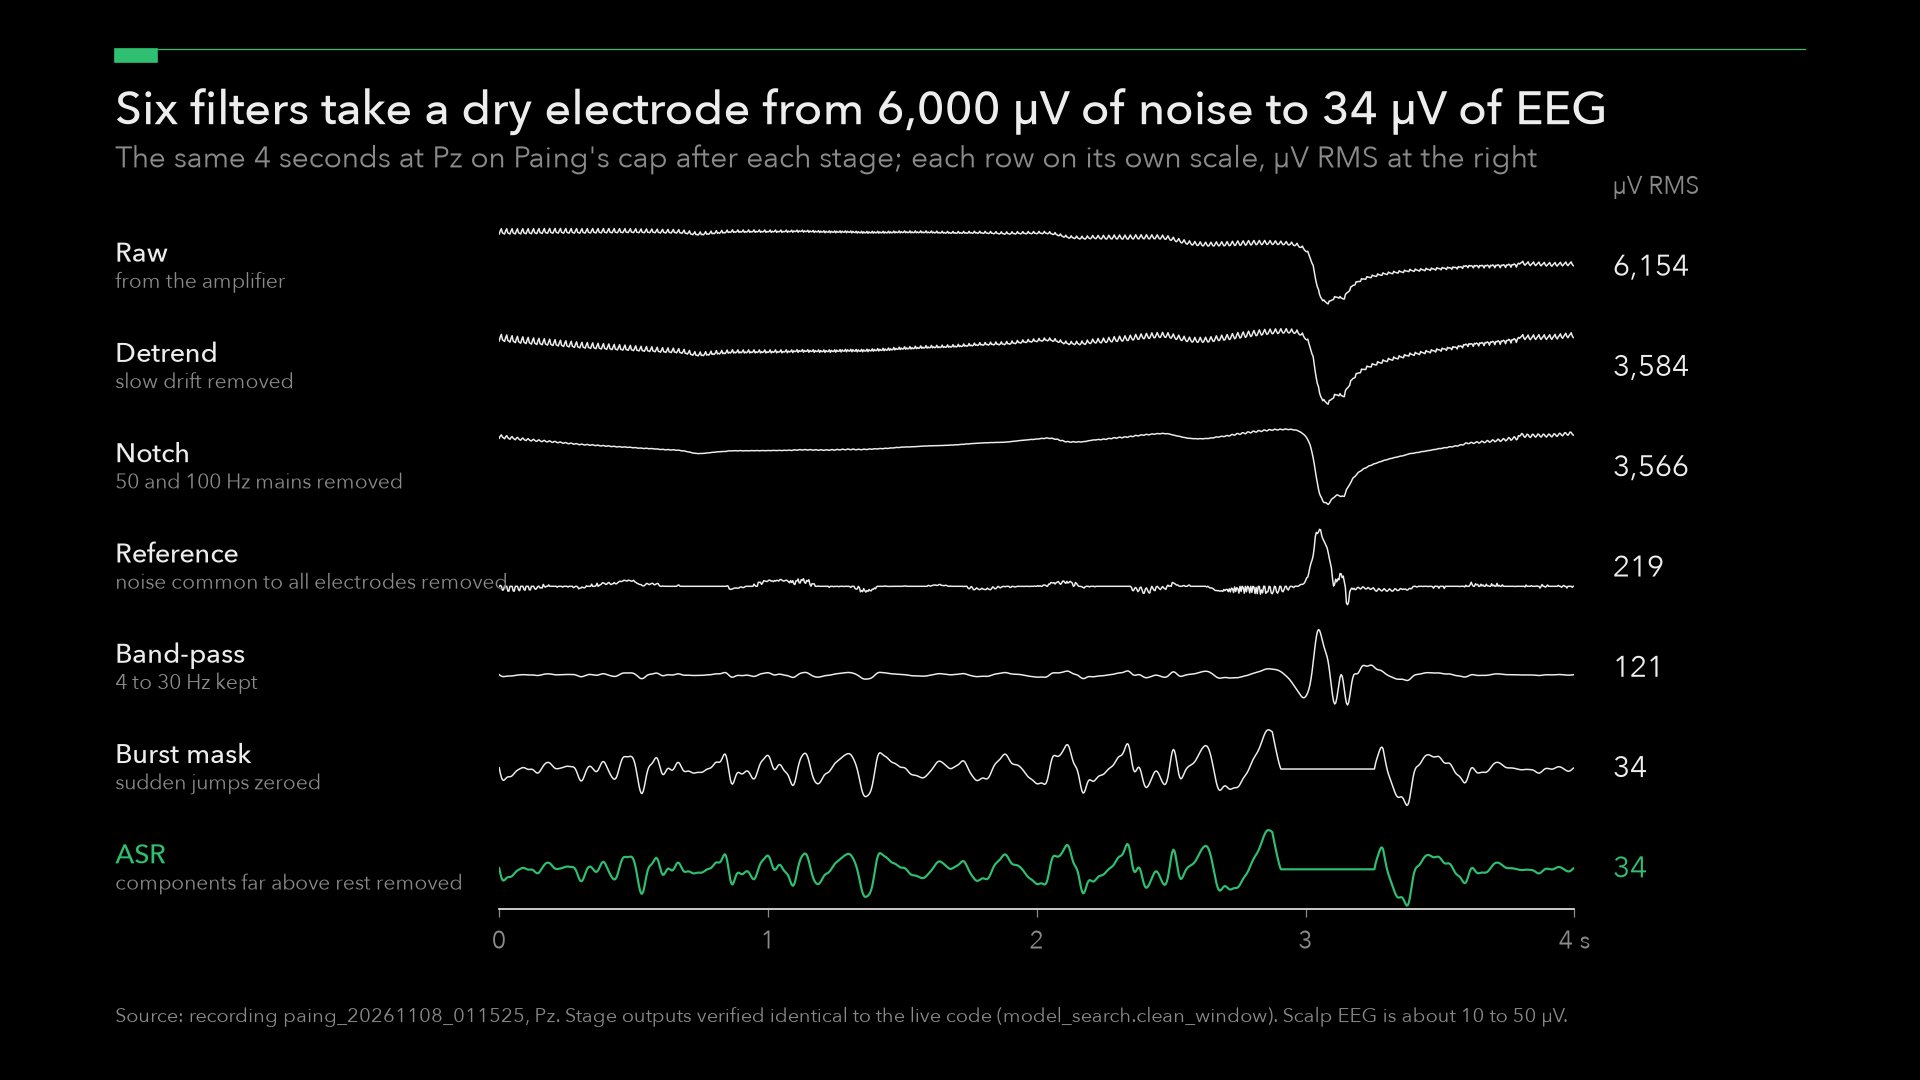
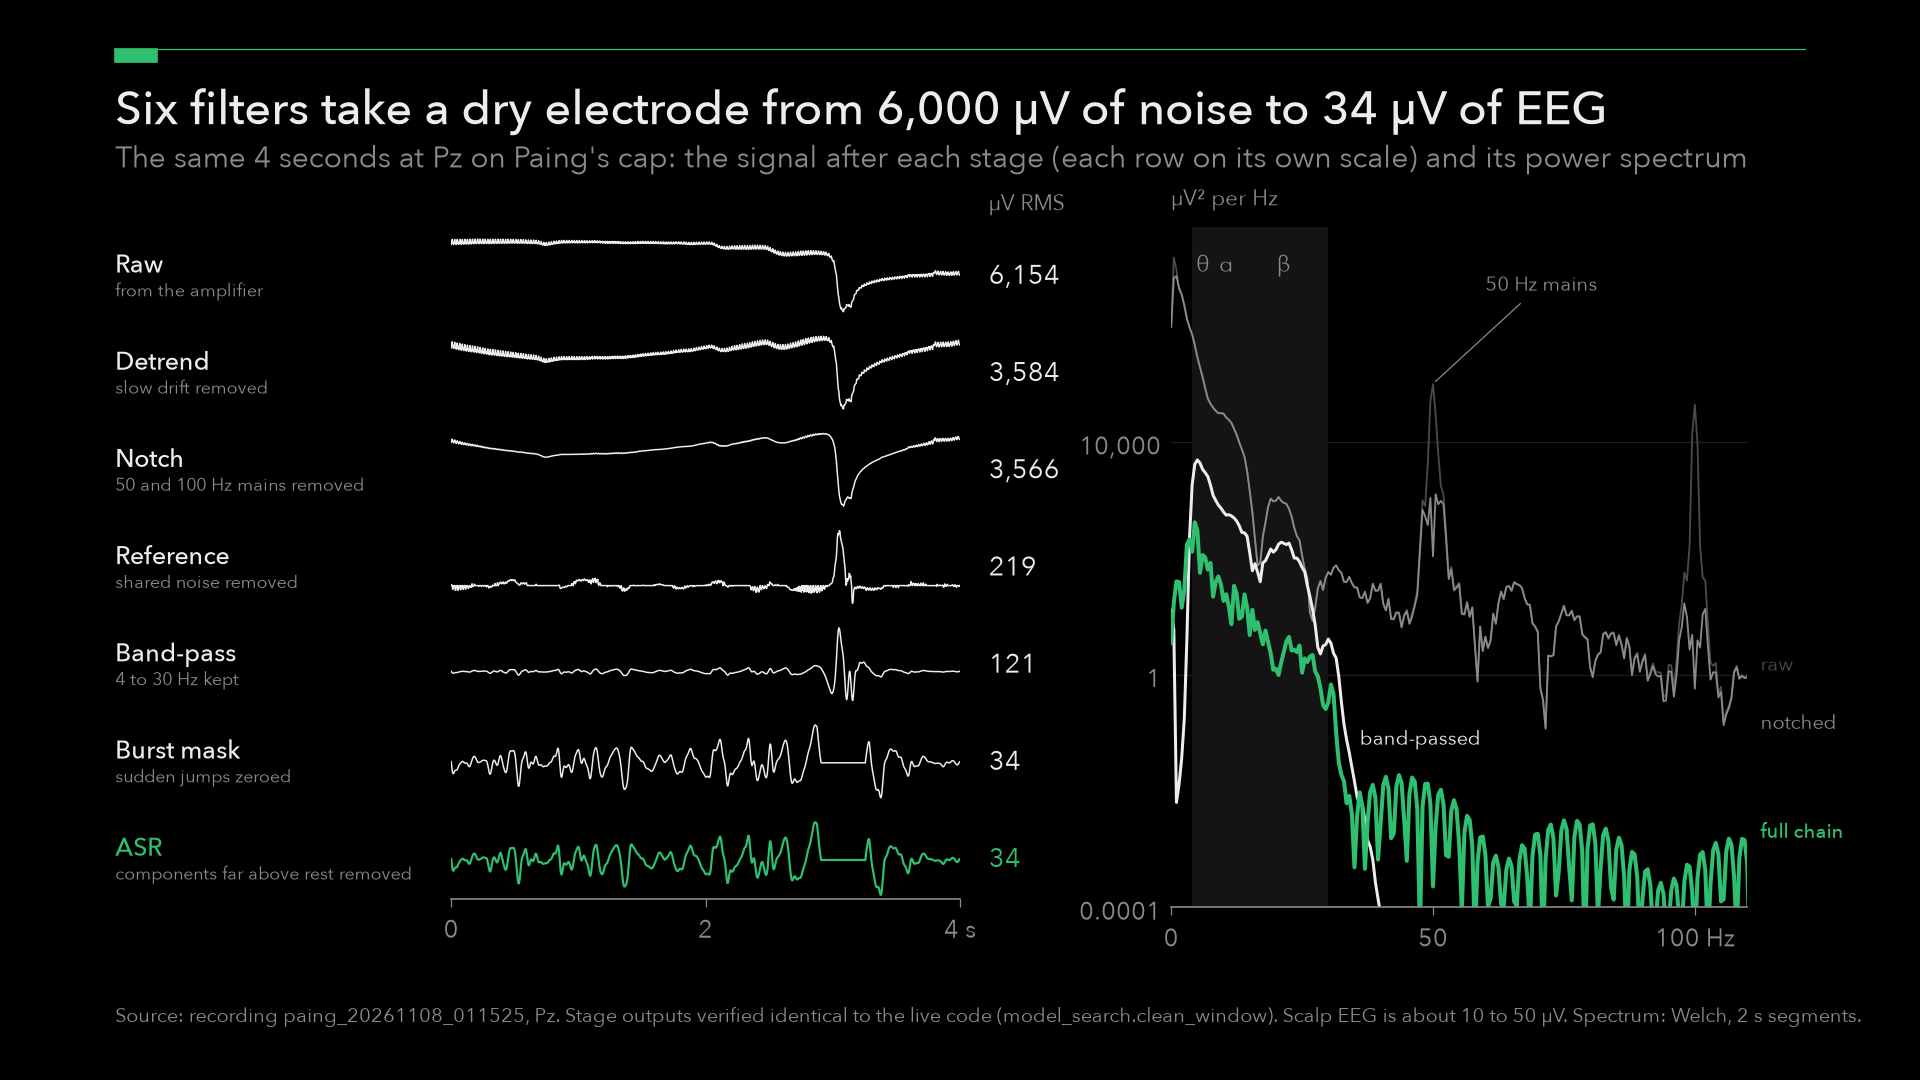
Figures: slides 2 and 3 merged (stage stack plus spectrum), brain-markers slide dropped; best8 is now six figures

diff --git a/loadmonitor/figures_editorial.py b/loadmonitor/figures_editorial.py
@@ -1,9 +1,8 @@
-"""The eight presentation figures, editorial style (loadmonitor/figstyle.py), all from real data.
+"""The six presentation figures, editorial style (loadmonitor/figstyle.py), all from real data.
 
     .venv/bin/python loadmonitor/figures_editorial.py        # writes figures/slides/best8/1..8 (about 6 min; ML pass cached)
 
-1 how it works        2 raw to clean, stage by stage        3 what each stage removes (spectrum)
-4 brain markers, 36 people    5 training curve    6 ROC on unseen people    7 live demo trace    8 app (screenshot, untouched)
+1 how it works   2 raw to clean (stage by stage, plus the spectrum)   3 training curve   4 ROC on unseen people   5 live demo trace   6 app (screenshot)
 """
 import csv
 import glob
@@ -109,7 +108,7 @@ coef, *_ = np.linalg.lstsq(V, y.T, rcond=None); y = y - (V @ coef).T; stages.app
 for f0 in (50.0, 100.0):
     y = sosfiltfilt(tf2sos(*iirnotch(f0, 30.0, fs=FS)), y, axis=1)
 stages.append(("Notch", "50 and 100 Hz mains removed", y.copy()))
-y = y - np.median(y[ok], axis=0, keepdims=True); stages.append(("Reference", "noise common to all electrodes removed", y.copy()))
+y = y - np.median(y[ok], axis=0, keepdims=True); stages.append(("Reference", "shared noise removed", y.copy()))
 y = sosfiltfilt(butter(cfg.get("order", 4), [cfg["lo"], cfg["hi"]], btype="band", fs=FS, output="sos"), y, axis=1)
 stages.append(("Band-pass", "4 to 30 Hz kept", y.copy()))
 env = np.abs(hilbert(y, axis=1)); bad = env > cfg["burst"] * np.median(env, axis=1, keepdims=True) + 1e-9
@@ -121,68 +120,33 @@ stages.append(("Burst mask", "sudden jumps zeroed", y.copy()))
 if asr.V is not None:
     y = asr(y); stages.append(("ASR", "components far above rest removed", y.copy()))
 
-fig = F.page("Six filters take a dry electrode from 6,000 µV of noise to 34 µV of EEG", "The same 4 seconds at Pz on Paing's cap after each stage; each row on its own scale, µV RMS at the right")
-n = len(stages); top, bot = 0.80, 0.15; h = (top - bot) / n
+fig = F.page("Six filters take a dry electrode from 6,000 µV of noise to 34 µV of EEG", "The same 4 seconds at Pz on Paing's cap: the signal after each stage (each row on its own scale) and its power spectrum")
+n = len(stages); top, bot = 0.79, 0.16; h = (top - bot) / n
 for i, (nm, what, yy) in enumerate(stages):
-    ax = fig.add_axes([0.26, top - (i + 1) * h + 0.008, 0.56, h - 0.016]); ax.grid(False); ax.axis("off")
+    ax = fig.add_axes([0.235, top - (i + 1) * h + 0.008, 0.265, h - 0.016]); ax.grid(False); ax.axis("off")
     last = i == n - 1
-    ax.plot(t, yy[j], color=F.ACCENT if last else F.INK, lw=1.3 if last else 0.9)
-    ax.set_xlim(0, 4)
-    fig.text(F.LEFT, top - (i + 0.5) * h + 0.012, nm, fontsize=16, color=F.ACCENT if last else F.INK, va="center", weight="medium")
-    fig.text(F.LEFT, top - (i + 0.5) * h - 0.014, what, fontsize=12.5, color=F.INK2, va="center")
+    ax.plot(t, yy[j], color=F.ACCENT if last else F.INK, lw=1.3 if last else 0.9); ax.set_xlim(0, 4)
+    fig.text(F.LEFT, top - (i + 0.5) * h + 0.010, nm, fontsize=15, color=F.ACCENT if last else F.INK, va="center", weight="medium")
+    fig.text(F.LEFT, top - (i + 0.5) * h - 0.014, what, fontsize=11, color=F.INK2, va="center")
     r = yy[j][FS // 2:-FS // 2].std()
-    fig.text(0.84, top - (i + 0.5) * h, f"{r:,.0f}", fontsize=18, color=F.ACCENT if last else F.INK, va="center", ha="left")
-fig.text(0.84, top + 0.012, "µV RMS", fontsize=F.T_AX, color=F.INK2, va="bottom")
-ax.axis("on"); ax.spines["bottom"].set_visible(True); ax.set_yticks([]); ax.set_xticks([0, 1, 2, 3, 4]); ax.set_xticklabels(["0", "1", "2", "3", "4 s"])
-F.source(fig, "Source: recording paing_20261108_011525, Pz. Stage outputs verified identical to the live code (model_search.clean_window). Scalp EEG is about 10 to 50 µV.")
-out(fig, 2, "raw_to_clean.png")
-
-fig = F.page("Mains hum sits a million times above the brain bands until the chain removes it", "Power spectrum of the same window after each stage, µV² per Hz, log scale")
-a = F.axes(fig, (F.LEFT, 0.16, 0.80, 0.62))
-pick = [(0, F.GREY, 1.2), (2, F.INK2, 1.2), (4, F.INK, 2.0), (n - 1, F.ACCENT, 2.6)]
-for lo, hi, nm in ((4, 8, "theta"), (8, 13, "alpha"), (13, 30, "beta")):
+    fig.text(0.515, top - (i + 0.5) * h, f"{r:,.0f}", fontsize=16, color=F.ACCENT if last else F.INK, va="center", ha="left")
+fig.text(0.515, top + 0.008, "µV RMS", fontsize=13, color=F.INK2, va="bottom")
+ax.axis("on"); ax.spines["bottom"].set_visible(True); ax.spines["bottom"].set_color(F.INK2); ax.set_yticks([]); ax.set_xticks([0, 2, 4]); ax.set_xticklabels(["0", "2", "4 s"])
+a = F.axes(fig, (0.61, 0.16, 0.30, 0.63))
+pick = [(0, F.GREY, 1.1), (2, F.INK2, 1.1), (4, F.INK, 1.8), (n - 1, F.ACCENT, 2.4)]
+for lo, hi, nm in ((4, 8, "θ"), (8, 13, "α"), (13, 30, "β")):
     a.axvspan(lo, hi, color=F.BAND, lw=0)
     a.text((lo + hi) / 2, 2e7, nm, ha="center", va="top", fontsize=13, color=F.INK2)
-ends = {}
 for i, col, lw in pick:
     f_, p_ = welch(stages[i][2][j], fs=FS, nperseg=2 * FS)
-    a.semilogy(f_, p_ + 1e-5, color=col, lw=lw); ends[i] = p_[-1] + 1e-5
-F.end_label(a, 110, 3.0, "raw", F.GREY); F.end_label(a, 110, 0.6, "after notch", F.INK2)
-a.text(21, 2.5e3, "after band-pass", color=F.INK, fontsize=F.T_LABEL, ha="left", va="bottom"); F.end_label(a, 110, 2e-3, "after full chain", F.ACCENT, weight="medium")
-a.set_xlim(0, 110); a.set_ylim(1e-4, 5e7); a.set_xlabel("frequency, Hz")
-a.annotate("50 Hz mains", (50, 1e5), xytext=(58, 3e6), color=F.INK2, fontsize=13, arrowprops=dict(arrowstyle="-", color=F.INK2, lw=0.75))
-F.source(fig, "Source: same Pz window as the previous figure. Welch, 2 s segments.")
-out(fig, 3, "stage_spectra.png")
-
-# ---------- 4 brain markers, 36 people ----------
-rm.CH[:] = ["Fz", "Pz", "O1"]
-def rel(sig, lo, hi):
-    f_, p_ = welch(sig - sig.mean(), fs=FS, nperseg=2 * FS)
-    return 10 * np.log10(p_[(f_ >= lo) & (f_ < hi)].sum() / p_[(f_ >= 4) & (f_ < 30)].sum())
-P = []
-for path in sorted(glob.glob("data/eegmat/Subject*_1.edf")):
-    xr, fs = rm.load_edf(path); xt, _ = rm.load_edf(path.replace("_1.edf", "_2.edf"))
-    if fs == 500:
-        xr = resample_poly(xr, 1, 2, axis=1); xt = resample_poly(xt, 1, 2, axis=1)
-    def med(xx, ch, lo, hi, a0, a1):
-        return float(np.median([rel(sosfiltfilt(NOTCH, xx[ch, s:s + 4 * FS]), lo, hi) for s in range(a0 * FS, min(a1 * FS, xx.shape[1] - 4 * FS), 2 * FS)]))
-    P.append((np.mean([med(xr, 1, 8, 13, 30, 90), med(xr, 2, 8, 13, 30, 90)]), np.mean([med(xt, 1, 8, 13, 0, 60), med(xt, 2, 8, 13, 0, 60)]),
-              med(xr, 0, 4, 8, 30, 90), med(xt, 0, 4, 8, 0, 60)))
-P = np.array(P)
-fig = F.page("In arithmetic, alpha at the back of the head falls and theta at the front rises", f"{len(P)} lab people, rest then silent subtraction; relative band power, dB; one line per person, the median in colour")
-for k, (i0, i1, nm, col, expect_down) in enumerate(((0, 1, "Posterior alpha, Pz and O1", F.ACCENT, True), (2, 3, "Frontal theta, Fz", F.ACCENT, False))):
-    a = F.axes(fig, (F.LEFT + k * 0.47, 0.16, 0.34, 0.60))
-    d = P[:, i1] - P[:, i0]
-    for r in P:
-        a.plot([0, 1], [r[i0], r[i1]], color=F.GREY, lw=1.0)
-    a.plot([0, 1], [np.median(P[:, i0]), np.median(P[:, i1])], color=col, lw=3.0)
-    F.end_label(a, 1, np.median(P[:, i1]), f"median {np.median(d):+.1f} dB", col, weight="medium")
-    a.set_xticks([0, 1]); a.set_xticklabels(["rest", "arithmetic"]); a.set_xlim(-0.1, 1.45)
-    a.text(0, 1.03, nm, transform=a.transAxes, fontsize=F.T_AX, color=F.INK, weight="medium", va="bottom")
-    n_dir = int(np.sum(d < 0)) if expect_down else int(np.sum(d > 0))
-    a.text(0, -0.14, f"{'falls' if expect_down else 'rises'} in {n_dir} of {len(P)} people", transform=a.transAxes, fontsize=14, color=F.INK2)
-F.source(fig, "Source: PhysioNet EEG during mental arithmetic (gel cap). Rest file 30 to 90 s vs task file 0 to 60 s, 4 s windows, median per person.")
-out(fig, 4, "brain_markers.png")
+    a.semilogy(f_, p_ + 1e-5, color=col, lw=lw)
+a.set_xlim(0, 110); a.set_ylim(1e-4, 5e7); a.set_xticks([0, 50, 100]); a.set_xticklabels(["0", "50", "100 Hz"]); a.set_yticks([1e-4, 1e0, 1e4])
+a.set_yticklabels(["0.0001", "1", "10,000"]); a.text(0, 1.02, "µV² per Hz", transform=a.transAxes, fontsize=13, color=F.INK2, va="bottom")
+a.annotate("50 Hz mains", (50, 1e5), xytext=(60, 4e6), color=F.INK2, fontsize=12, arrowprops=dict(arrowstyle="-", color=F.INK2, lw=0.75))
+F.end_label(a, 110, 1.5, "raw", F.GREY, size=12); F.end_label(a, 110, 0.15, "notched", F.INK2, size=12)
+a.text(36, 8e-2, "band-passed", color=F.INK, fontsize=12, ha="left", va="center", bbox=dict(fc=F.PAGE, ec="none", pad=1.5)); F.end_label(a, 110, 2e-3, "full chain", F.ACCENT, weight="medium", size=12)
+F.source(fig, "Source: recording paing_20261108_011525, Pz. Stage outputs verified identical to the live code (model_search.clean_window). Scalp EEG is about 10 to 50 µV. Spectrum: Welch, 2 s segments.")
+out(fig, 2, "raw_to_clean.png")
 
 # ---------- 5 and 6: training curve and ROC, one leave-one-person-out pass ----------
 cache = "models/_slide_feats.npz"
@@ -220,7 +184,7 @@ for arr, col, nm in ((tr_auc, F.GREY, "training people"), (te_auc, F.ACCENT, "pe
 a.axhline(0.5, color=F.INK2, lw=1.0, ls=(0, (4, 3))); F.end_label(a, n_est, 0.5, "chance", F.INK2)
 a.set_xlim(1, n_est); a.set_ylim(0.45, 1.0); a.set_xlabel("boosting trees"); a.set_yticks([0.5, 0.6, 0.7, 0.8, 0.9, 1.0])
 F.source(fig, "Source: PhysioNet EEG during mental arithmetic, 36 people. Live recipe: 5 channels, cleaning chain, 29 amplitude-invariant features, 200 trees of depth 2.")
-out(fig, 5, "training_curve.png")
+out(fig, 3, "training_curve.png")
 
 fig = F.page(f"On people it has never seen, the model reaches an AUROC of {pooled:.2f}", "Each of 36 people scored by a model trained on the other 35, one 4 s window at a time; grey = one person, green = all pooled")
 a = fig.add_axes([0.30, 0.15, 0.40, 0.63]); a.tick_params(axis="y", length=0); a.grid(True, axis="both")
@@ -238,7 +202,7 @@ fig.text(0.76, 0.43, "median per person", fontsize=F.T_AX, color=F.INK2)
 fig.text(0.76, 0.33, f"{int(np.sum(te_auc[:, -1] >= 0.7))} of 36", fontsize=36, color=F.INK, va="center")
 fig.text(0.76, 0.28, "people at 0.7 or better", fontsize=F.T_AX, color=F.INK2)
 F.source(fig, "Source: PhysioNet EEG during mental arithmetic (gel cap). Per-window scores before the live 12 s smoothing. Not validated on the dry cap.")
-out(fig, 6, "roc.png")
+out(fig, 4, "roc.png")
 
 # ---------- 7 live demo trace ----------
 logp = os.path.join(F.OUT, "_lab_demo_gauge.csv")
@@ -270,10 +234,10 @@ b.plot(ta, al_s, color=F.INK2, lw=1.8); b.axhline(0, color=F.GREY, lw=0.75); F.e
 b.set_xlim(34, 210); b.set_yticks([-4, 0, 4]); b.set_xticks([40, 80, 120, 160, 200]); b.set_xticklabels(["40", "80", "120", "160", "200 s"])
 F.source(fig, "Source: PhysioNet eegmat person 09, held out of the model's training. Shaded span = where the alarm was on (load above 50 for 20 s; it lingers from the 12 s smoothing).\n"
          "The recovery minute is the same person's earlier rest; the dataset has no rest after the task. Alpha: 8 to 13 Hz, mean of Pz and O1, 9 s smoothing.")
-out(fig, 7, "live_demo.png")
+out(fig, 5, "live_demo.png")
 
 # ---------- 8 app: the real page, untouched ----------
 import shutil
-shutil.copy(os.path.join(F.OUT, "10_app.png"), os.path.join(BEST, "8_app.png"))
-print("wrote figures/slides/best8/8_app.png (screenshot)")
+shutil.copy(os.path.join(F.OUT, "10_app.png"), os.path.join(BEST, "6_app.png"))
+print("wrote figures/slides/best8/6_app.png (screenshot)")
 print(f"pooled AUROC {pooled:.3f}, median per person {med_auc:.3f}")
